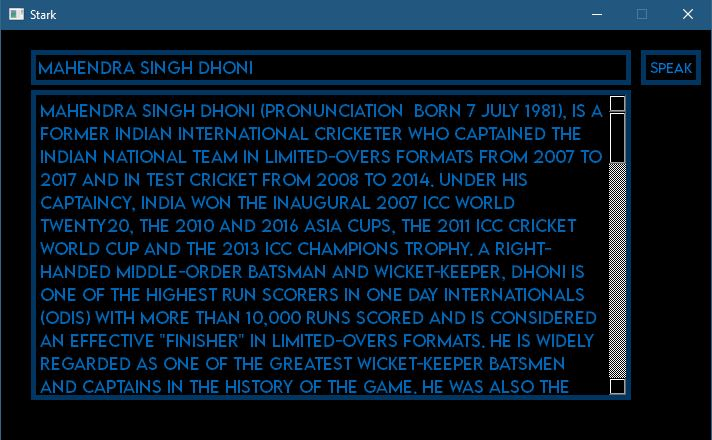
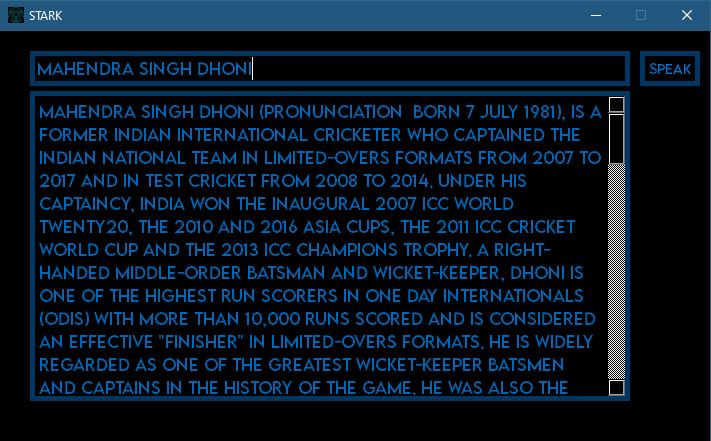
STARK

diff --git a/STARK.py b/STARK.py
@@ -8,13 +8,16 @@ import speech_recognition as sr
 import pyttsx3
 import sys
 import socket
-hostname = socket.gethostname()
+import os
 
+hostname = socket.gethostname()
+cwd = os.path.dirname(os.path.realpath(__file__))
 app= QApplication(sys.argv)
 win=QMainWindow()
 win.setStyleSheet('background-color:#000000;')
 win.setFixedSize(710,410)
-win.setWindowTitle("Stark")
+win.setWindowTitle("STARK")
+win.setWindowIcon(QIcon(os.path.join(cwd+'\\UI\\icons', 'stark.jfif')))
 
 def speakText(command):
 	engine = pyttsx3.init() 
